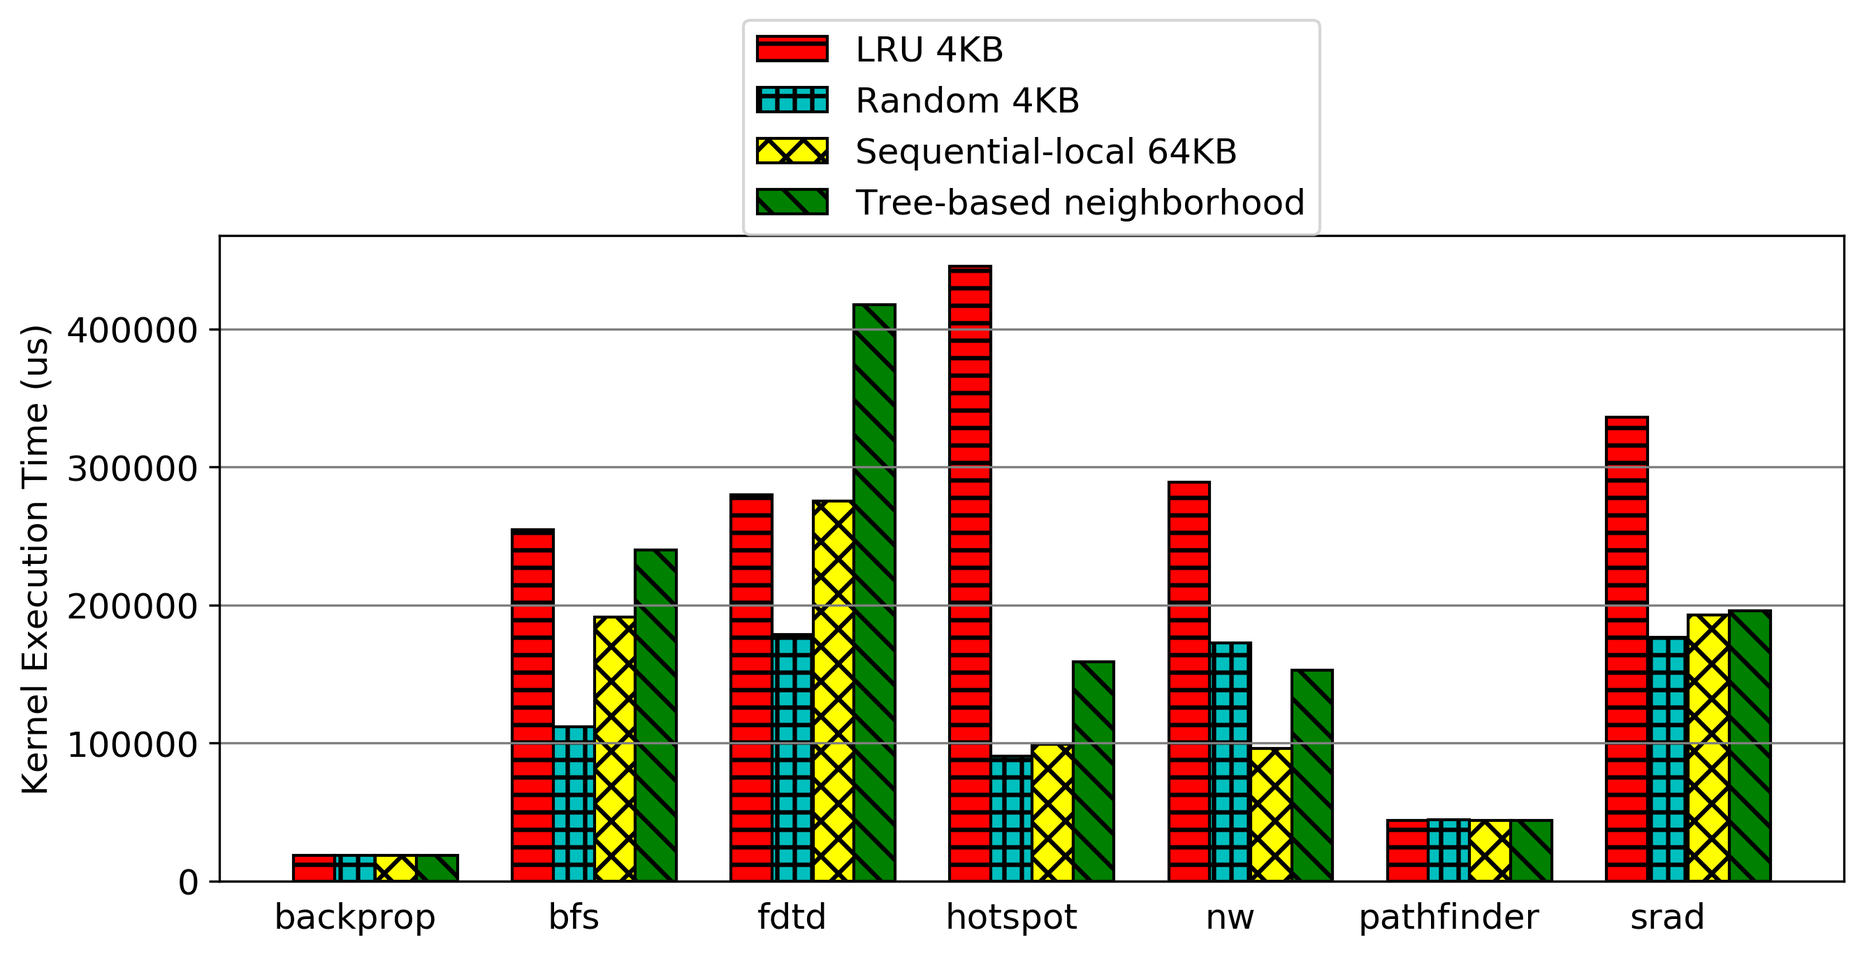
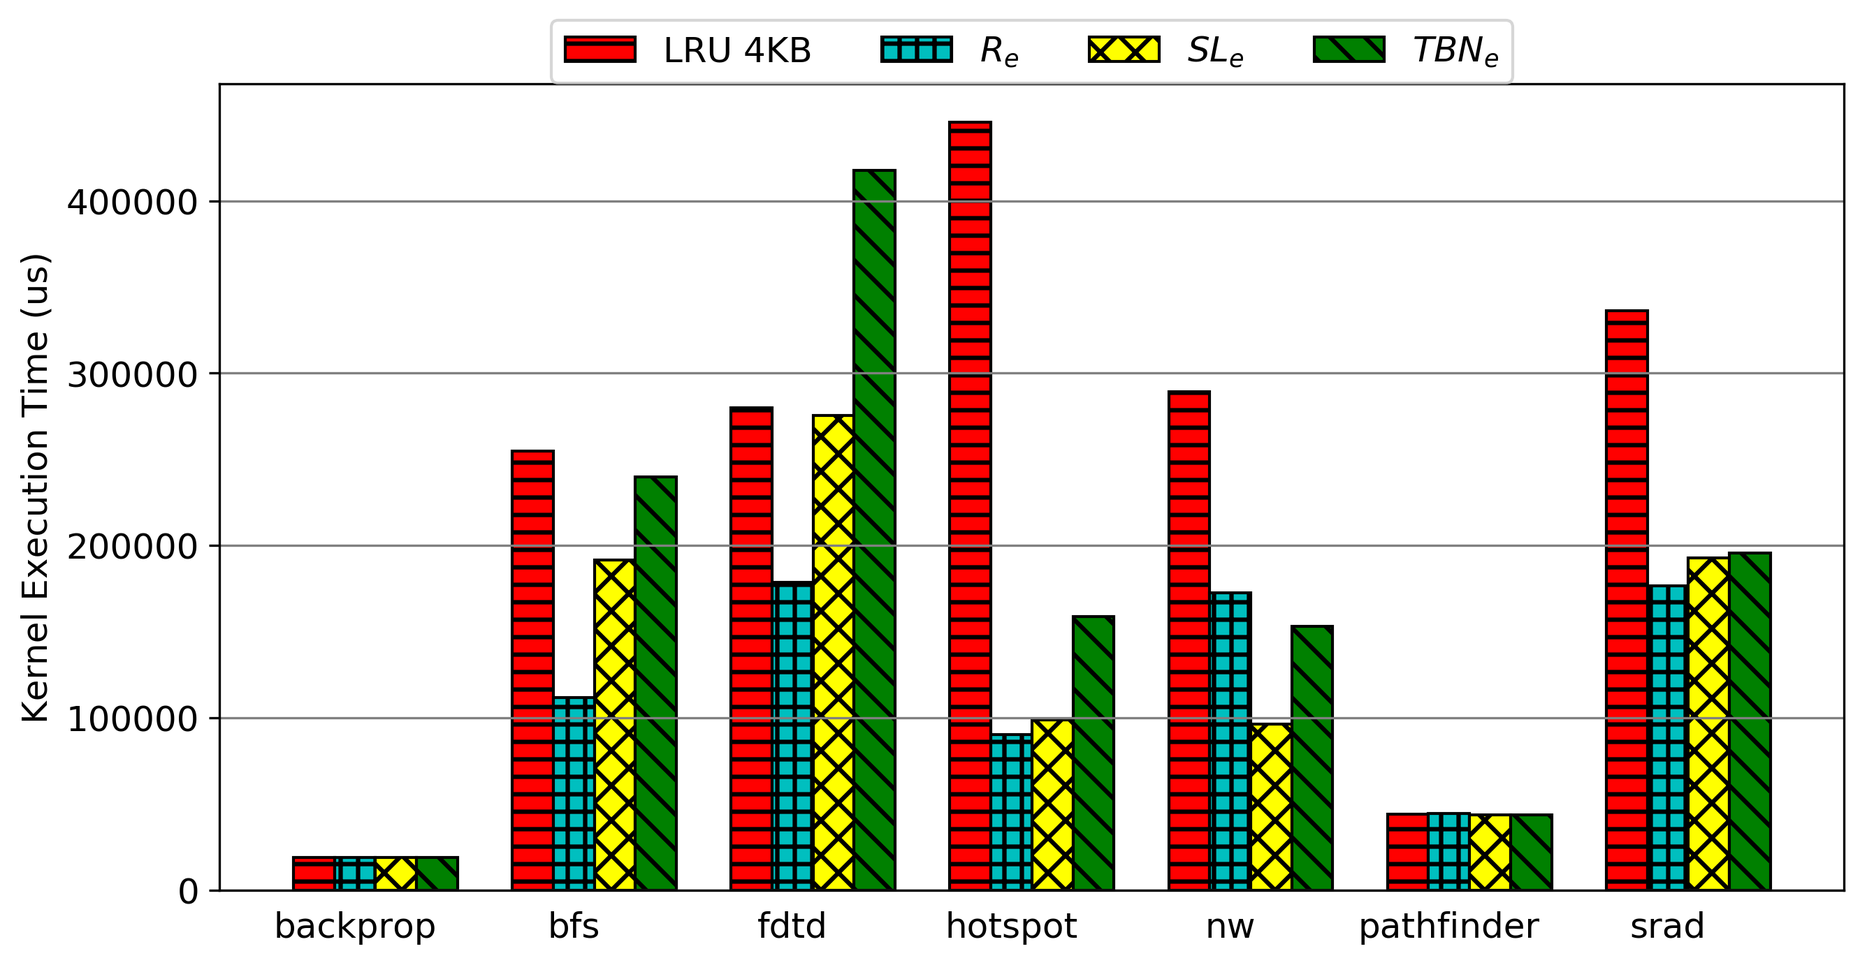
Yet another update to plots and scripts

diff --git a/benchmarks/Results/Eviction_Prefetcher_Interplay/scripts/plot_hwprefetchers.py b/benchmarks/Results/Eviction_Prefetcher_Interplay/scripts/plot_hwprefetchers.py
@@ -99,12 +99,12 @@ plt.rc('font', **font)
 
 plt.rcParams['hatch.linewidth'] = 1.5
 
-plt.figure(figsize=(10,4))
+plt.figure(figsize=(10,5))
 
-plt.bar(r2, rt_OnDemand, hatch="--", color='r', width=barWidth, edgecolor='black', label='On-demand paging')
-plt.bar(r3, rt_Random, hatch="++", color='c', width=barWidth, edgecolor='black', label='Random 4KB along with on-demand paging')         
-plt.bar(r4, rt_SL, hatch="xx", color='yellow', width=barWidth, edgecolor='black', label='Sequential-local 64KB')
-plt.bar(r5, rt_TBN, hatch="\\\\", color='g', width=barWidth, edgecolor='black', label='Tree-based neighborhood')
+plt.bar(r2, rt_OnDemand, hatch="--", color='r', width=barWidth, edgecolor='black', label='No prefetcher')
+plt.bar(r3, rt_Random, hatch="++", color='c', width=barWidth, edgecolor='black', label='$R_p$')         
+plt.bar(r4, rt_SL, hatch="xx", color='yellow', width=barWidth, edgecolor='black', label='$SL_p$')
+plt.bar(r5, rt_TBN, hatch="\\\\", color='g', width=barWidth, edgecolor='black', label='$TBN_p$')
 
 
 plt.xticks([r + 0.3 + barWidth for r in r1a], benchmarks)
@@ -119,7 +119,7 @@ plt.ylabel('Kernel Execution Time (log scale)')
 ax.xaxis.set_ticks_position('none')
 
 # Create legend & Show graphic
-plt.legend(loc='upper center', bbox_to_anchor=(0.5, 1.36), prop={'size': 12})
+plt.legend(loc='upper center', bbox_to_anchor=(0.5, 1.11), prop={'size': 12}, ncol=4)
 
 plt.savefig('../plots/HWPrefetchers/hwprefetchers.png',  dpi=300, bbox_inches="tight")
 
@@ -134,12 +134,12 @@ plt.rc('font', **font)
 
 plt.rcParams['hatch.linewidth'] = 1.5
 
-plt.figure(figsize=(10,4))
+plt.figure(figsize=(10,5))
 
-plt.bar(r2, rbw_OnDemand, hatch="--", color='r', width=barWidth, edgecolor='black', label='On-demand paging')
-plt.bar(r3, rbw_Random, hatch="++", color='c', width=barWidth, edgecolor='black', label='Random 4KB along with on-demand paging')         
-plt.bar(r4, rbw_SL, hatch="xx", color='yellow', width=barWidth, edgecolor='black', label='Sequential-local 64KB')
-plt.bar(r5, rbw_TBN, hatch="\\\\", color='g', width=barWidth, edgecolor='black', label='Tree-based neighborhood')
+plt.bar(r2, rbw_OnDemand, hatch="--", color='r', width=barWidth, edgecolor='black', label='No prefetcher')
+plt.bar(r3, rbw_Random, hatch="++", color='c', width=barWidth, edgecolor='black', label='$R_p$')         
+plt.bar(r4, rbw_SL, hatch="xx", color='yellow', width=barWidth, edgecolor='black', label='$SL_p$')
+plt.bar(r5, rbw_TBN, hatch="\\\\", color='g', width=barWidth, edgecolor='black', label='$TBN_p$')
 
 
 plt.xticks([r + 0.3 + barWidth for r in r1a], benchmarks)
@@ -152,7 +152,7 @@ plt.ylabel('Average PCI-e Read Bandwidth (GB/s)')
 ax.xaxis.set_ticks_position('none')
 
 # Create legend & Show graphic
-plt.legend(loc='upper center', bbox_to_anchor=(0.5, 1.36), prop={'size': 12})
+plt.legend(loc='upper center', bbox_to_anchor=(0.5, 1.11), prop={'size': 12}, ncol=4)
 
 plt.savefig('../plots/HWPrefetchers/hwprefetchers_read_bw.png',  dpi=300, bbox_inches="tight")
 
@@ -167,12 +167,12 @@ plt.rc('font', **font)
 
 plt.rcParams['hatch.linewidth'] = 1.5
 
-plt.figure(figsize=(10,4))
+plt.figure(figsize=(10,5))
 
-plt.bar(r2, pf_OnDemand, hatch="--", color='r', width=barWidth, edgecolor='black', label='On-demand paging')
-plt.bar(r3, pf_Random, hatch="++", color='c', width=barWidth, edgecolor='black', label='Random 4KB along with on-demand paging')         
-plt.bar(r4, pf_SL, hatch="xx", color='yellow', width=barWidth, edgecolor='black', label='Sequential-local 64KB')
-plt.bar(r5, pf_TBN, hatch="\\\\", color='g', width=barWidth, edgecolor='black', label='Tree-based neighborhood')
+plt.bar(r2, pf_OnDemand, hatch="--", color='r', width=barWidth, edgecolor='black', label='No prefetcher')
+plt.bar(r3, pf_Random, hatch="++", color='c', width=barWidth, edgecolor='black', label='$R_p$')
+plt.bar(r4, pf_SL, hatch="xx", color='yellow', width=barWidth, edgecolor='black', label='$SL_p$')
+plt.bar(r5, pf_TBN, hatch="\\\\", color='g', width=barWidth, edgecolor='black', label='$TBN_p$')
 
 
 plt.xticks([r + 0.3 + barWidth for r in r1a], benchmarks)
@@ -187,7 +187,7 @@ plt.ylabel('Total Number of Far-faults (log scale)')
 ax.xaxis.set_ticks_position('none')
 
 # Create legend & Show graphic
-plt.legend(loc='upper center', bbox_to_anchor=(0.5, 1.36), prop={'size': 12})
+plt.legend(loc='upper center', bbox_to_anchor=(0.5, 1.11), prop={'size': 12}, ncol=4)
 
 plt.savefig('../plots/HWPrefetchers/hwprefetchers_page_fault.png',  dpi=300, bbox_inches="tight")
 

diff --git a/benchmarks/Results/Eviction_Prefetcher_Interplay/scripts/plot_oversubscription.py b/benchmarks/Results/Eviction_Prefetcher_Interplay/scripts/plot_oversubscription.py
@@ -99,12 +99,12 @@ plt.rc('font', **font)
 
 plt.rcParams['hatch.linewidth'] = 1.5
 
-plt.figure(figsize=(10,4))
+plt.figure(figsize=(10,5))
 
-plt.bar(r2, rt_110, hatch="--", color='r', width=barWidth, edgecolor='black', label='Working set == gddr size * 110%')
-plt.bar(r3, rt_125, hatch="++", color='c', width=barWidth, edgecolor='black', label='Working set == gddr size * 125%')         
-plt.bar(r4, rt_110_PreEvict95, hatch="xx", color='yellow', width=barWidth, edgecolor='black', label='Working set == gddr size * 110% and pre-eviction at 95%')
-plt.bar(r5, rt_110_PreEvict90, hatch="\\\\", color='g', width=barWidth, edgecolor='black', label='Working set == gddr size * 110% and pre-eviction at 90%')
+plt.bar(r2, rt_110, hatch="--", color='r', width=barWidth, edgecolor='black', label='Working set == device memory size * 110%')
+plt.bar(r3, rt_125, hatch="++", color='c', width=barWidth, edgecolor='black', label='Working set == device memory size * 125%')         
+plt.bar(r4, rt_110_PreEvict95, hatch="xx", color='yellow', width=barWidth, edgecolor='black', label='Working set == device memory size * 110% and pre-eviction at 95%')
+plt.bar(r5, rt_110_PreEvict90, hatch="\\\\", color='g', width=barWidth, edgecolor='black', label='Working set == device memory size * 110% and pre-eviction at 90%')
 
 plt.xticks([r + 0.3 + barWidth for r in r1a], benchmarks)
 
@@ -116,7 +116,7 @@ plt.ylabel('Kernel Execution Time\n(Normalized to no oversubscription)')
 ax.xaxis.set_ticks_position('none')
 
 # Create legend & Show graphic
-plt.legend(loc='upper center', bbox_to_anchor=(0.5, 1.36), prop={'size': 12})
+plt.legend(loc='upper center', bbox_to_anchor=(0.5, 1.29), prop={'size': 12})
 
 plt.savefig('../plots/Oversubscription/oversub.png',  dpi=300, bbox_inches="tight")
 
@@ -128,12 +128,12 @@ plt.rc('font', **font)
 
 plt.rcParams['hatch.linewidth'] = 1.5
 
-plt.figure(figsize=(10,4))
+plt.figure(figsize=(10,5))
 
-plt.bar(r2, pt4k_110, hatch="--", color='r', width=barWidth, edgecolor='black', label='Working set == gddr size * 110%')
-plt.bar(r3, pt4k_125, hatch="++", color='c', width=barWidth, edgecolor='black', label='Working set == gddr size * 125%')         
-plt.bar(r4, pt4k_110_PreEvict95, hatch="xx", color='yellow', width=barWidth, edgecolor='black', label='Working set == gddr size * 110% and pre-eviction at 95%')
-plt.bar(r5, pt4k_110_PreEvict90, hatch="\\\\", color='g', width=barWidth, edgecolor='black', label='Working set == gddr size * 110% and pre-eviction at 90%')
+plt.bar(r2, pt4k_110, hatch="--", color='r', width=barWidth, edgecolor='black', label='Working set == device memory size * 110%')
+plt.bar(r3, pt4k_125, hatch="++", color='c', width=barWidth, edgecolor='black', label='Working set == device memory size * 125%')         
+plt.bar(r4, pt4k_110_PreEvict95, hatch="xx", color='yellow', width=barWidth, edgecolor='black', label='Working set == device memory size * 110% and pre-eviction at 95%')
+plt.bar(r5, pt4k_110_PreEvict90, hatch="\\\\", color='g', width=barWidth, edgecolor='black', label='Working set == device memory size * 110% and pre-eviction at 90%')
 
 plt.xticks([r + 0.3 + barWidth for r in r1a], benchmarks)
 
@@ -145,7 +145,7 @@ plt.ylabel('Number of 4KB Page Transfers\n(Normalized to no oversubscription)')
 ax.xaxis.set_ticks_position('none')
 
 # Create legend & Show graphic
-ax.legend(loc='upper center', bbox_to_anchor=(0.5, 1.36), prop={'size': 12})
+ax.legend(loc='upper center', bbox_to_anchor=(0.5, 1.29), prop={'size': 12})
 
 plt.savefig('../plots/Oversubscription/oversub_4k.png',  dpi=300, bbox_inches="tight")
 

diff --git a/benchmarks/Results/Eviction_Prefetcher_Interplay/scripts/plot_lpeviction.py b/benchmarks/Results/Eviction_Prefetcher_Interplay/scripts/plot_lpeviction.py
@@ -98,12 +98,12 @@ plt.rc('font', **font)
 
 plt.rcParams['hatch.linewidth'] = 1.5
 
-plt.figure(figsize=(10,4))
+plt.figure(figsize=(10,5))
 
-plt.bar(r2, rt_2MB_110, hatch="--", color='r', width=barWidth, edgecolor='black', label='2MB Eviction with Working set == gddr size * 110%')
-plt.bar(r3, rt_TBN_110, hatch="++", color='c', width=barWidth, edgecolor='black', label='TBN Eviction with Working set == gddr size * 110%')
-plt.bar(r4, rt_2MB_125, hatch="xx", color='yellow', width=barWidth, edgecolor='black', label='2MB Eviction with Working set == gddr size * 125%')
-plt.bar(r5, rt_TBN_125, hatch="\\\\", color='g', width=barWidth, edgecolor='black', label='TBN Eviction with Working set == gddr size * 125%')
+plt.bar(r2, rt_2MB_110, hatch="--", color='r', width=barWidth, edgecolor='black', label='LRU 2MB + Working set == device memory size * 110%')
+plt.bar(r3, rt_TBN_110, hatch="++", color='c', width=barWidth, edgecolor='black', label='$TBN_e$ + Working set == device memory size * 110%')
+plt.bar(r4, rt_2MB_125, hatch="xx", color='yellow', width=barWidth, edgecolor='black', label='LRU 2MB + Working set == device memory size * 125%')
+plt.bar(r5, rt_TBN_125, hatch="\\\\", color='g', width=barWidth, edgecolor='black', label='$TBN_e$ + Working set == device memory size * 125%')
 
 
 plt.xticks([r + 0.3 + barWidth for r in r1a], benchmarks)
@@ -119,7 +119,7 @@ plt.ylabel('Kernel Execution Time \n(Normalized to 2MB eviction)')
 ax.xaxis.set_ticks_position('none')
 
 # Create legend & Show graphic
-plt.legend(loc='upper center', bbox_to_anchor=(0.5, 1.36), prop={'size': 12})
+plt.legend(loc='upper center', bbox_to_anchor=(0.5, 1.3), prop={'size': 12})
 
 plt.savefig('../plots/LPEviction/lp_eviction.png',  dpi=300, bbox_inches="tight")
 
@@ -159,12 +159,12 @@ plt.rc('font', **font)
 
 plt.rcParams['hatch.linewidth'] = 1.5
 
-plt.figure(figsize=(10,4))
+plt.figure(figsize=(10,5))
 
-plt.bar(r2, th_2MB_110, hatch="--", color='r', width=barWidth, edgecolor='black', label='2MB Eviction with Working set == gddr size * 110%')
-plt.bar(r3, th_TBN_110, hatch="++", color='c', width=barWidth, edgecolor='black', label='TBN Eviction with Working set == gddr size * 110%')
-plt.bar(r4, th_2MB_125, hatch="xx", color='yellow', width=barWidth, edgecolor='black', label='2MB Eviction with Working set == gddr size * 125%')
-plt.bar(r5, th_TBN_125, hatch="\\\\", color='g', width=barWidth, edgecolor='black', label='TBN Eviction with Working set == gddr size * 125%')
+plt.bar(r2, th_2MB_110, hatch="--", color='r', width=barWidth, edgecolor='black', label='LRU 2MB + Working set == device memory size * 110%')
+plt.bar(r3, th_TBN_110, hatch="++", color='c', width=barWidth, edgecolor='black', label='$TBN_e$ + Working set == device memory size * 110%')
+plt.bar(r4, th_2MB_125, hatch="xx", color='yellow', width=barWidth, edgecolor='black', label='LRU 2MB + Working set == device memory size * 125%')
+plt.bar(r5, th_TBN_125, hatch="\\\\", color='g', width=barWidth, edgecolor='black', label='$TBN_e$ + Working set == device memory size * 125%')
 
 plt.xticks([r + 0.3 + barWidth for r in r1a], benchmarks)
 
@@ -176,7 +176,7 @@ plt.ylabel('Total Number of Page Thrashing')
 ax.xaxis.set_ticks_position('none')
 
 # Create legend & Show graphic
-plt.legend(loc='upper center', bbox_to_anchor=(0.5, 1.48), prop={'size': 12})
+plt.legend(loc='upper center', bbox_to_anchor=(0.5, 1.3), prop={'size': 12})
 
 plt.savefig('../plots/LPEviction/thrashing.png',  dpi=300, bbox_inches="tight")
 

diff --git a/benchmarks/Results/Eviction_Prefetcher_Interplay/scripts/plot_access_individual.py b/benchmarks/Results/Eviction_Prefetcher_Interplay/scripts/plot_access_individual.py
@@ -54,9 +54,15 @@ alloc_mids = ((alloc_data['PageStart'] + alloc_data['PageEnd'])/2).apply(int).ge
 # Labels of managed data structure axis is the name of the allocations
 alloc_names = alloc_data['DataStructure'].get_values()
 
+if len(sys.argv) > 2:
+	iterations = sys.argv[2:]
+else:
+	iterations = kernel_data['Iteration'].unique()
 
 # Loop on kernel iterations to plot access pattern
-for iter in kernel_data['Iteration'].unique():
+for iter in iterations:
+	iter = int(iter)
+
 	cycle_min = kernel_data.query('Iteration == @iter')['Start'].min()
 	cycle_max = kernel_data.query('Iteration == @iter')['End'].max()
 
@@ -70,7 +76,7 @@ for iter in kernel_data['Iteration'].unique():
 	cycle_bounds = np.unique(np.append(kernel_data.query('Iteration == @iter')['Start'].values, kernel_data.query('Iteration == @iter')['End'].values))
 
 	# Create figure 
-	fig = plt.figure(figsize=(8,4))
+	fig = plt.figure(figsize=(10,5))
 
 	# Set font of the plot
 	font = {'family' : 'sans-serif',
@@ -92,7 +98,7 @@ for iter in kernel_data['Iteration'].unique():
 
 	prim_ax.set_xlim([cycle_min - 500, cycle_max + 500]) 
 	prim_ax.set_xticks(cycle_bounds)
-	prim_ax.set_xticklabels(cycle_bounds, rotation=90)
+	prim_ax.set_xticklabels(cycle_bounds, rotation=0)
 
 	prim_ax.grid(b=True, which='major', color='grey', linestyle='-')
 
@@ -112,8 +118,37 @@ for iter in kernel_data['Iteration'].unique():
 	# Set the bounds, ticks, tick labels for secondary x-axis
 	sec_x_ax.set_xlim(prim_ax.get_xlim())
 	sec_x_ax.set_xticks(kernel_mids)
-	sec_x_ax.set_xticklabels(kernel_names, rotation=90)
- 
+	sec_x_ax.set_xticklabels(kernel_names, rotation=0)
+
+        ##################################################################################################
+	# Static part to zoom for needle; extremely hardcoded
+	##################################################################################################
+	from mpl_toolkits.axes_grid1.inset_locator import zoomed_inset_axes
+
+	all_cycles = sorted(acc_data.query('Cycle >= @cycle_min & Cycle <= @cycle_max')['Cycle'].unique())
+	len_all_cycle = len(all_cycles)
+	zoom_plot_xmin = all_cycles[int(len_all_cycle*0.1)]
+	zoom_plot_xmax = zoom_plot_xmin + 400
+
+	axins = zoomed_inset_axes(prim_ax, 10, loc=7)
+
+	axins.scatter(acc_data.query('Cycle >= @cycle_min & Cycle <= @cycle_max')['Cycle'].values, acc_data.query('Cycle >= @cycle_min & Cycle <= @cycle_max')['PageNum'].values, marker='o', edgecolor='none', s=2, c='k')
+
+	axins.set_xlim(zoom_plot_xmin, zoom_plot_xmax)
+	axins.set_ylim(786850, 787050)
+
+	plt.ticklabel_format(useOffset=False)
+	axins.get_xaxis().get_major_formatter().set_scientific(False)
+	axins.get_yaxis().get_major_formatter().set_scientific(False)
+
+	#plt.yticks(visible=False)
+	plt.xticks(visible=False)
+
+	from mpl_toolkits.axes_grid1.inset_locator import mark_inset
+
+	mark_inset(prim_ax, axins, loc1=2, loc2=4, fc="none", ec="0.5")	
+	##################################################################################################
+
 	plt.savefig(acc_dir + benchmark + '_iter' + str(iter) + '.png',  dpi=300, bbox_inches="tight")
 
 	plt.close()

diff --git a/benchmarks/Results/Eviction_Prefetcher_Interplay/scripts/plot_eviction.py b/benchmarks/Results/Eviction_Prefetcher_Interplay/scripts/plot_eviction.py
@@ -90,12 +90,12 @@ plt.rc('font', **font)
 
 plt.rcParams['hatch.linewidth'] = 1.5
 
-plt.figure(figsize=(10,4))
+plt.figure(figsize=(10,5))
 
 plt.bar(r2, rt_LRU, hatch="--", color='r', width=barWidth, edgecolor='black', label='LRU 4KB')
-plt.bar(r3, rt_Random, hatch="++", color='c', width=barWidth, edgecolor='black', label='Random 4KB')         
-plt.bar(r4, rt_SL, hatch="xx", color='yellow', width=barWidth, edgecolor='black', label='Sequential-local 64KB')
-plt.bar(r5, rt_TBN, hatch="\\\\", color='g', width=barWidth, edgecolor='black', label='Tree-based neighborhood')
+plt.bar(r3, rt_Random, hatch="++", color='c', width=barWidth, edgecolor='black', label='$R_e$')         
+plt.bar(r4, rt_SL, hatch="xx", color='yellow', width=barWidth, edgecolor='black', label='$SL_e$')
+plt.bar(r5, rt_TBN, hatch="\\\\", color='g', width=barWidth, edgecolor='black', label='$TBN_e$')
 
 
 plt.xticks([r + 0.3 + barWidth for r in r1a], benchmarks)
@@ -108,7 +108,7 @@ plt.ylabel('Kernel Execution Time (us)')
 ax.xaxis.set_ticks_position('none')
 
 # Create legend & Show graphic
-plt.legend(loc='upper center', bbox_to_anchor=(0.5, 1.36), prop={'size': 12})
+plt.legend(loc='upper center', bbox_to_anchor=(0.5, 1.1), prop={'size': 12}, ncol=4)
 
 plt.savefig('../plots/EvictionPolicies/evictions.png',  dpi=300, bbox_inches="tight")
 
@@ -123,12 +123,12 @@ plt.rc('font', **font)
 
 plt.rcParams['hatch.linewidth'] = 1.5
 
-plt.figure(figsize=(10,4))
+plt.figure(figsize=(10,5))
 
 plt.bar(r2, ev_LRU, hatch="--", color='r', width=barWidth, edgecolor='black', label='LRU 4KB')
-plt.bar(r3, ev_Random, hatch="++", color='c', width=barWidth, edgecolor='black', label='Random 4KB')         
-plt.bar(r4, ev_SL, hatch="xx", color='yellow', width=barWidth, edgecolor='black', label='Sequential-local 64KB')
-plt.bar(r5, ev_TBN, hatch="\\\\", color='g', width=barWidth, edgecolor='black', label='Tree-based neighborhood')
+plt.bar(r3, ev_Random, hatch="++", color='c', width=barWidth, edgecolor='black', label='$R_e$')         
+plt.bar(r4, ev_SL, hatch="xx", color='yellow', width=barWidth, edgecolor='black', label='$SL_e$')
+plt.bar(r5, ev_TBN, hatch="\\\\", color='g', width=barWidth, edgecolor='black', label='$TBN_e$')
 
 plt.xticks([r + 0.3 + barWidth for r in r1a], benchmarks)
 
@@ -140,6 +140,6 @@ plt.ylabel('Number of Pages Evicted')
 ax.xaxis.set_ticks_position('none')
 
 # Create legend & Show graphic
-plt.legend(loc='upper center', bbox_to_anchor=(0.5, 1.36), prop={'size': 12})
+plt.legend(loc='upper center', bbox_to_anchor=(0.5, 1.1), prop={'size': 12}, ncol=4)
 
 plt.savefig('../plots/EvictionPolicies/evictions_pg.png',  dpi=300, bbox_inches="tight")

diff --git a/benchmarks/Results/Eviction_Prefetcher_Interplay/scripts/plot_reservelru.py b/benchmarks/Results/Eviction_Prefetcher_Interplay/scripts/plot_reservelru.py
@@ -74,12 +74,12 @@ plt.rc('font', **font)
 
 plt.rcParams['hatch.linewidth'] = 1.5
 
-plt.figure(figsize=(10,4))
+plt.figure(figsize=(10,5))
 
-plt.bar(r2, rt_SL_110, hatch="xx", color='r', width=barWidth, edgecolor='black', label='SL 64KB eviction + SL prefetcher after eviction')
-plt.bar(r3, rt_TBN_110, hatch="\\\\", color='c', width=barWidth, edgecolor='black', label='TBN eviction + TBN prefetcher after eviction')
-plt.bar(r4, rt_TBN_110_Rsv10, hatch="OO", color='yellow', width=barWidth, edgecolor='black', label='TBN eviction + TBN prefetcher after eviction\n + Reserve 10% of LRU page list from eviction')
-plt.bar(r5, rt_TBN_110_Rsv20, hatch="oo", color='g', width=barWidth, edgecolor='black', label='TBN eviction + TBN prefetcher after eviction\n + Reserve 20% of LRU page list from eviction')
+plt.bar(r2, rt_SL_110, hatch="xx", color='r', width=barWidth, edgecolor='black', label='$SL_e$ + $SL_p$')
+plt.bar(r3, rt_TBN_110, hatch="\\\\", color='c', width=barWidth, edgecolor='black', label='$TBN_e$ + $TBN_p$')
+plt.bar(r4, rt_TBN_110_Rsv10, hatch="OO", color='yellow', width=barWidth, edgecolor='black', label='$TBN_e$ + $TBN_p$ + Reserve top 10% of LRU queue')
+plt.bar(r5, rt_TBN_110_Rsv20, hatch="oo", color='g', width=barWidth, edgecolor='black', label='$TBN_e$ + $TBN_p$ + Reserve top 20% of LRU queue')
 
 plt.xticks([r + 0.3 + barWidth for r in r1a], benchmarks)
 
@@ -91,7 +91,7 @@ plt.ylabel('Kernel Execution Time (us)')
 ax.xaxis.set_ticks_position('none')
 
 # Create legend & Show graphic
-plt.legend(loc='upper center', bbox_to_anchor=(0.5, 1.48), prop={'size': 12})
+plt.legend(loc='upper center', bbox_to_anchor=(0.5, 1.32), prop={'size': 12})
 
 plt.savefig('../plots/ReserveLRU/reservelru.png',  dpi=300, bbox_inches="tight")
 

diff --git a/benchmarks/Results/Eviction_Prefetcher_Interplay/scripts/plot_combo.py b/benchmarks/Results/Eviction_Prefetcher_Interplay/scripts/plot_combo.py
@@ -74,12 +74,12 @@ plt.rc('font', **font)
 
 plt.rcParams['hatch.linewidth'] = 1.5
 
-plt.figure(figsize=(10,4))
+plt.figure(figsize=(10,5))
 
-plt.bar(r2, rt_LRU_OD, hatch="--", color='r', width=barWidth, edgecolor='black', label='LRU 4KB eviction + OD after eviction')
-plt.bar(r3, rt_Random_Random, hatch="++", color='c', width=barWidth, edgecolor='black', label='Random 4KB eviction + RP after eviction')         
-plt.bar(r4, rt_SL_SL, hatch="xx", color='yellow', width=barWidth, edgecolor='black', label='SL 64KB eviction + SL prefetcher after eviction')
-plt.bar(r5, rt_TBN_TBN, hatch="\\\\", color='g', width=barWidth, edgecolor='black', label='TBN eviction + TBN prefetcher after eviction')
+plt.bar(r2, rt_LRU_OD, hatch="--", color='r', width=barWidth, edgecolor='black', label='LRU 4KB + OD')
+plt.bar(r3, rt_Random_Random, hatch="++", color='c', width=barWidth, edgecolor='black', label='$R_e$ + $R_p$')         
+plt.bar(r4, rt_SL_SL, hatch="xx", color='yellow', width=barWidth, edgecolor='black', label='$SL_e$ + $SL_p$')
+plt.bar(r5, rt_TBN_TBN, hatch="\\\\", color='g', width=barWidth, edgecolor='black', label='$TBN_e$ + $TBN_p$')
 
 
 plt.xticks([r + 0.3 + barWidth for r in r1a], benchmarks)
@@ -94,6 +94,6 @@ plt.ylabel('Kernel Execution Time (log scale)')
 ax.xaxis.set_ticks_position('none')
 
 # Create legend & Show graphic
-plt.legend(loc='upper center', bbox_to_anchor=(0.5, 1.36), prop={'size': 12})
+plt.legend(loc='upper center', bbox_to_anchor=(0.5, 1.11), prop={'size': 12}, ncol=4)
 
 plt.savefig('../plots/EvictionPolicy_HWPrefetcher_Combo/combo.png',  dpi=300, bbox_inches="tight")

diff --git a/benchmarks/Results/Eviction_Prefetcher_Interplay/scripts/plot_scalability.py b/benchmarks/Results/Eviction_Prefetcher_Interplay/scripts/plot_scalability.py
@@ -70,11 +70,11 @@ plt.rc('font', **font)
 
 plt.rcParams['hatch.linewidth'] = 1.5
 
-plt.figure(figsize=(10,4))
+plt.figure(figsize=(10,5))
 
-plt.bar(r2, rt_110, hatch="--", color='r', width=barWidth, edgecolor='black', label='Working set == gddr size * 110%')
-plt.bar(r3, rt_125, hatch="++", color='c', width=barWidth, edgecolor='black', label='Working set == gddr size * 125%')         
-plt.bar(r4, rt_150, hatch="xx", color='yellow', width=barWidth, edgecolor='black', label='Working set == gddr size * 150%')
+plt.bar(r2, rt_110, hatch="--", color='r', width=barWidth, edgecolor='black', label='Working set == device memory size * 110%')
+plt.bar(r3, rt_125, hatch="++", color='c', width=barWidth, edgecolor='black', label='Working set == device memory size * 125%')         
+plt.bar(r4, rt_150, hatch="xx", color='yellow', width=barWidth, edgecolor='black', label='Working set == device memory size * 150%')
 
 
 plt.xticks([r + 0.3 + barWidth for r in r1a], benchmarks)
@@ -90,6 +90,6 @@ plt.ylabel('Kernel Execution Time (us)')
 ax.xaxis.set_ticks_position('none')
 
 # Create legend & Show graphic
-plt.legend(loc='upper center', bbox_to_anchor=(0.5, 1.28), prop={'size': 12})
+plt.legend(loc='upper center', bbox_to_anchor=(0.5, 1.23), prop={'size': 12})
 
 plt.savefig('../plots/Scalability/scalability.png',  dpi=300, bbox_inches="tight")
